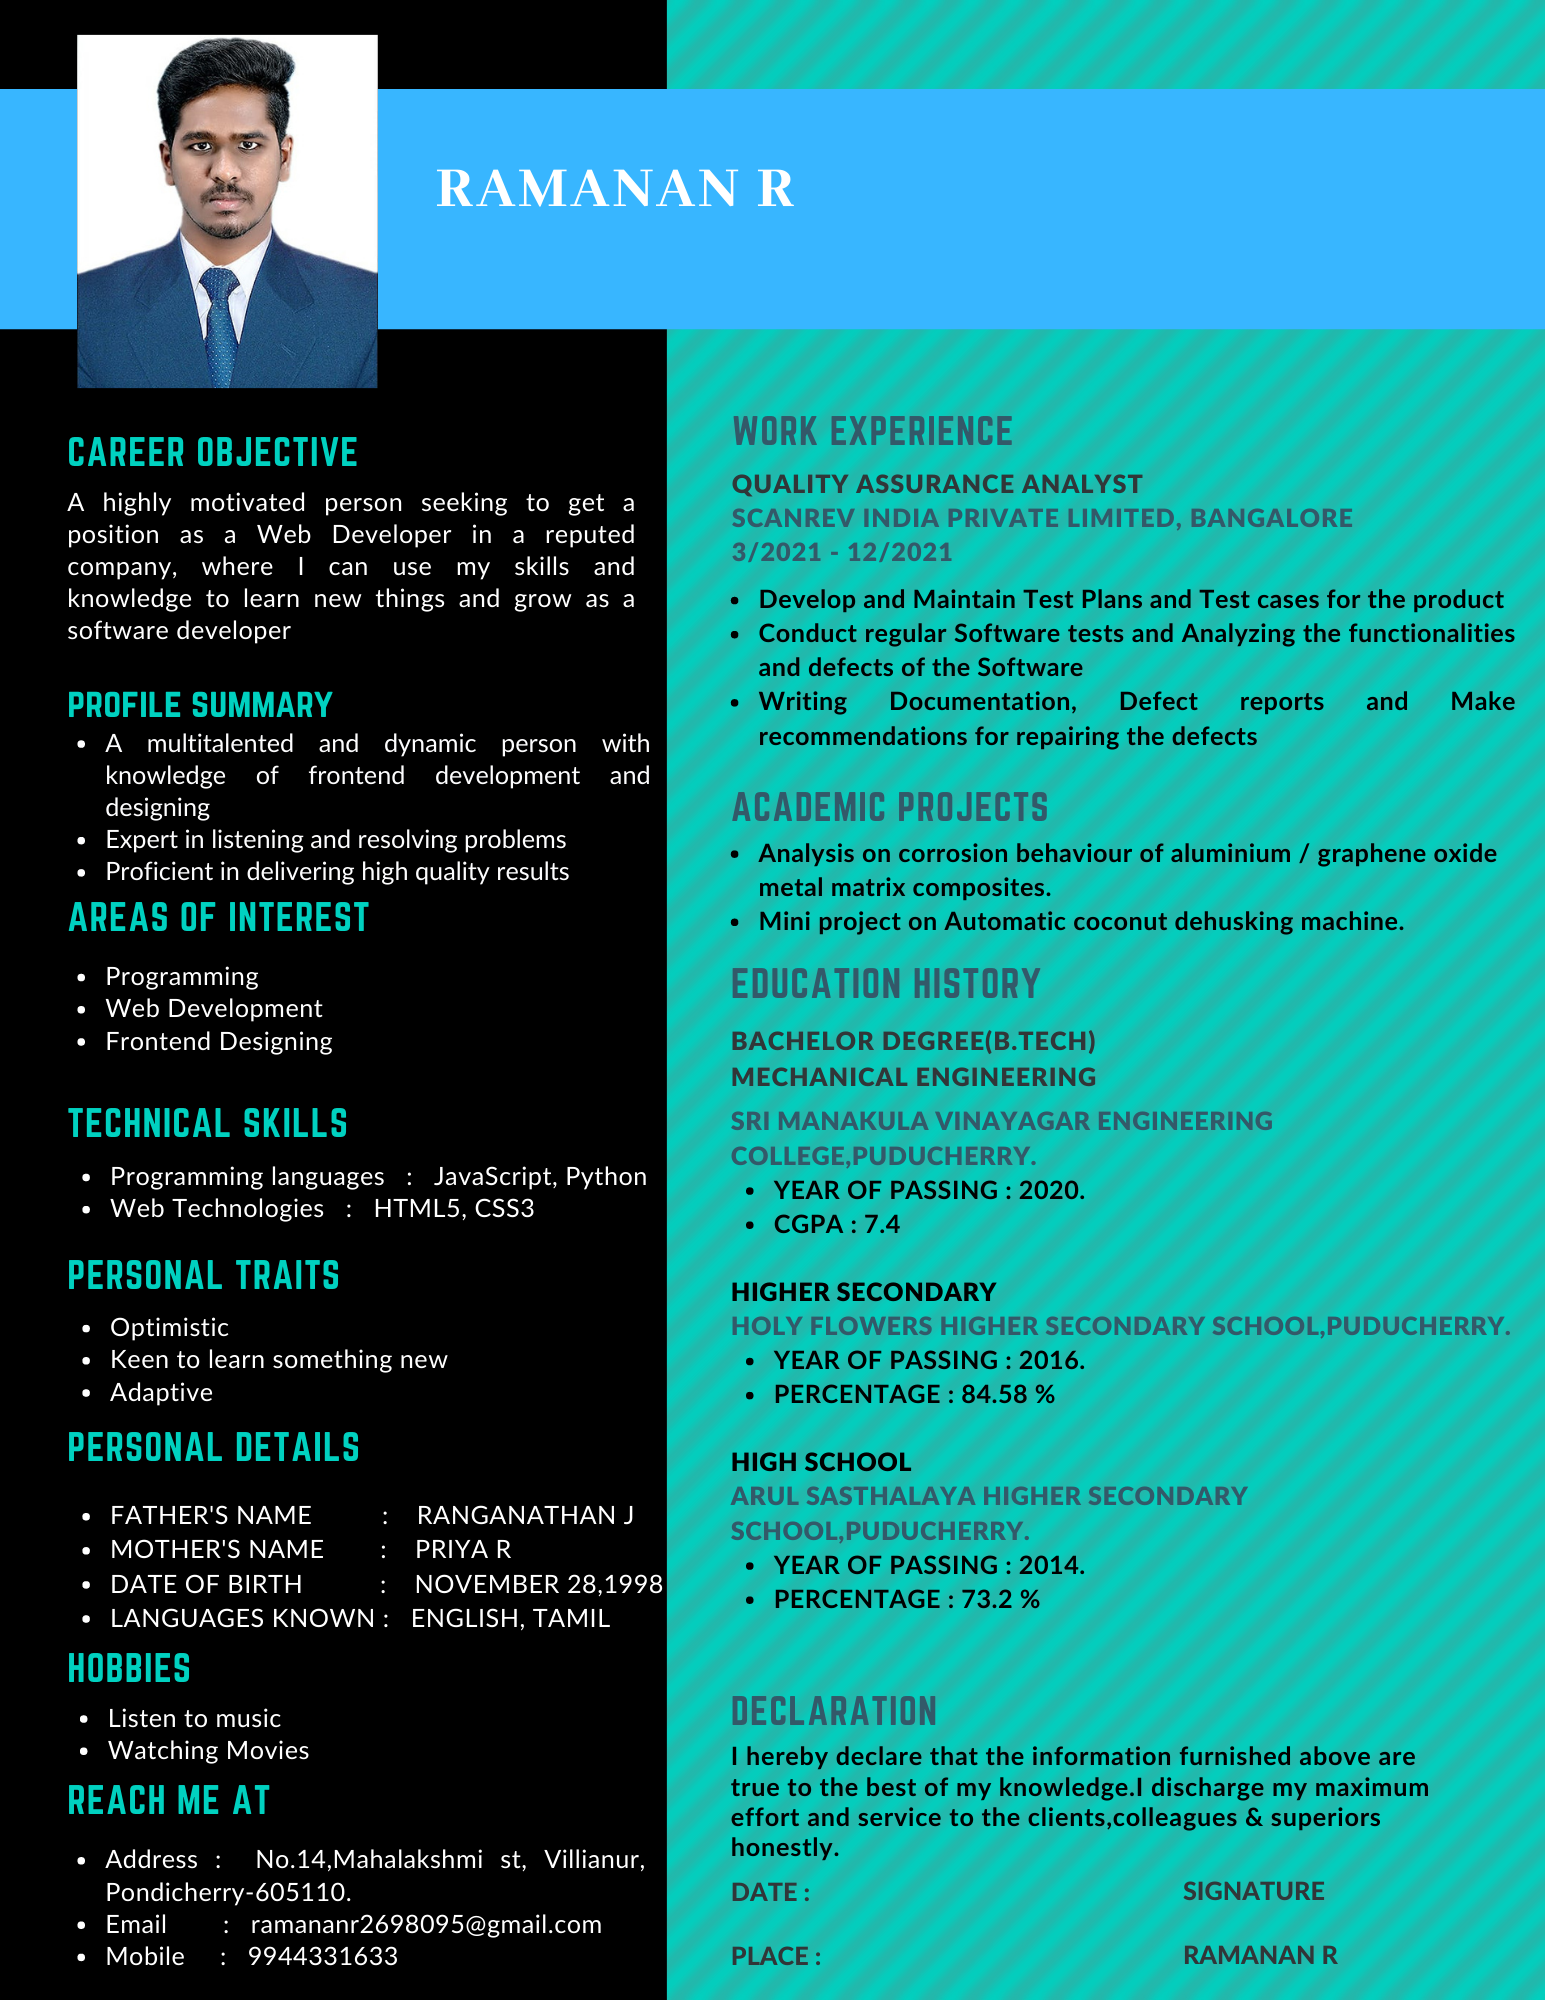
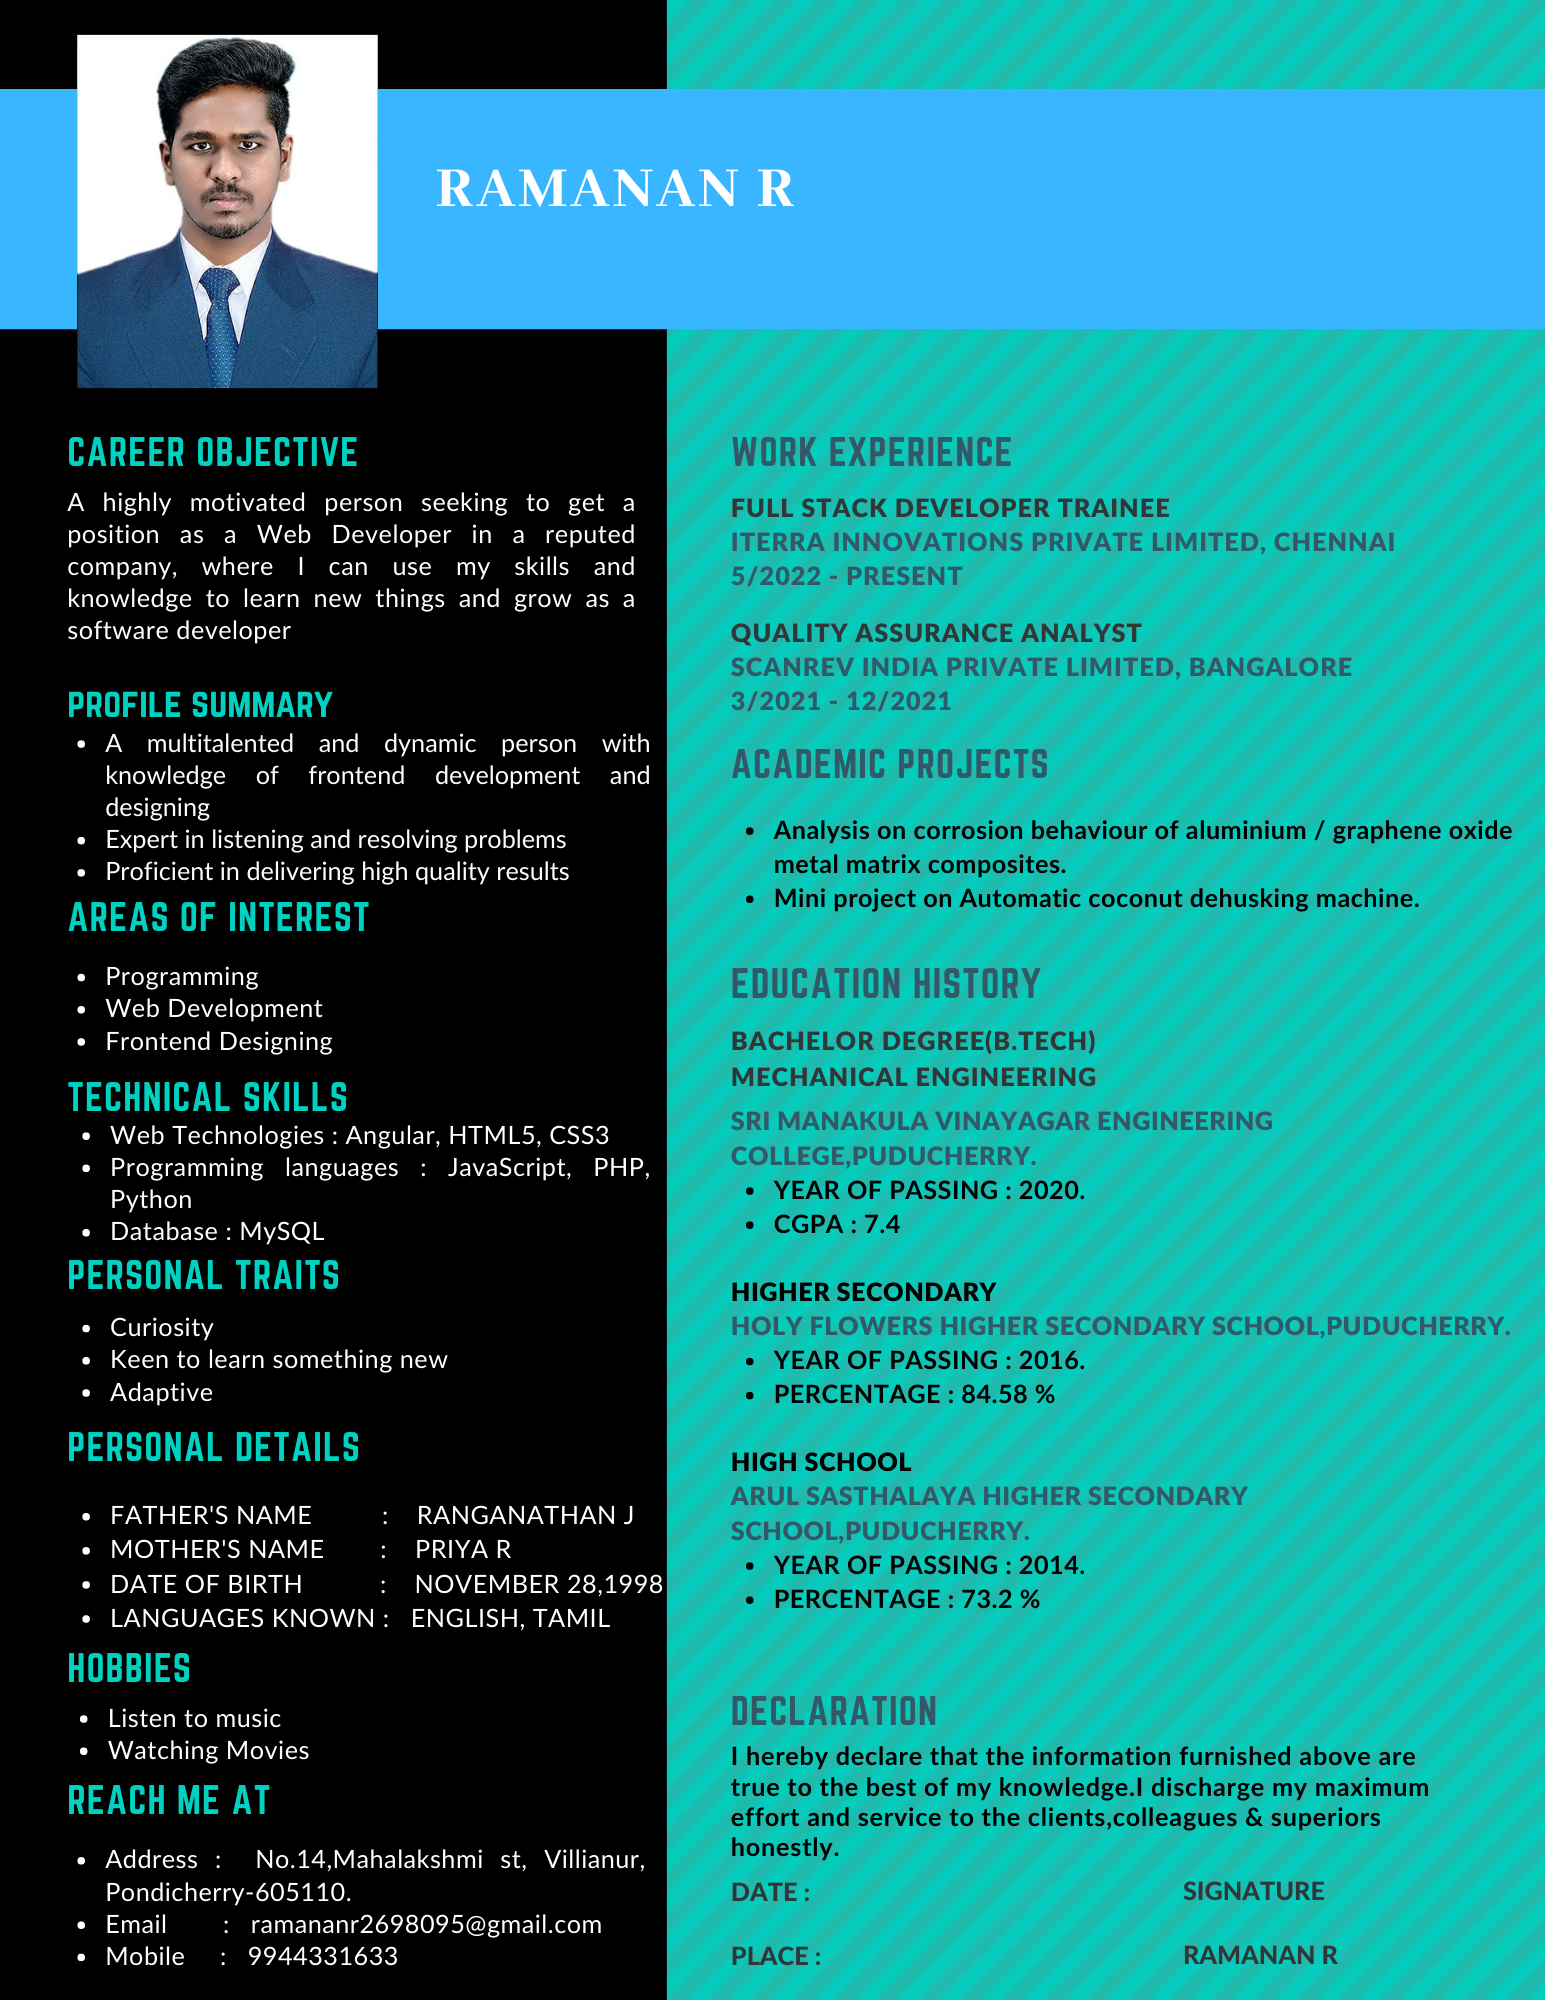
minor updates : work experience and resume

Changed region(s): [[0.466, 0.186, 0.9631, 0.465], [0.0311, 0.527, 0.4039, 0.62], [0.0932, 0.651, 0.1553, 0.682]]

diff --git a/index.html b/index.html
@@ -60,7 +60,7 @@
             <div class="information">
                 <ul>
                     <li>I am a Highly motivated, Self taught, aspiring Web developer. I always intended to complete work (project) under the given time period with my best of skills and experiences.</li>
-                    <li>I always keep exploring the development of web and native applications using latest technologies as React and Html-CSS and etc..</li>
+                    <li>I always keep exploring the development of web and native applications using latest technologies such as Angular and Html-CSS etc..</li>
                     <li>My goal is to obtain position as a Senior Software Engineer to learn and advance my current skill set and improve the services of the establishment.</li>
                     <li>I am skilled In dealing with problems in a resourceful manner and negotiating to achieve beneficial agreement.</li>
                     <li>I am always enthusiastic to learn and undertake new challenges.</li>
@@ -77,7 +77,11 @@
             <div class="study-image-container"><img class="study-image" src="/images/illus/Study.png" alt="study-image"></div>
             <div class="ed-container">
                 <div class="ed">
-                    <h3>Worked as Quality Assurance Analyst</h3>
+                    <h3>Working as a Full Stack Developer Trainee</h3>
+                    <p>05/2022 - Present<br>Iterra Innovations Private Limited, Chennai</p>
+                </div>
+                <div class="ed">
+                    <h3>Worked as a Quality Assurance Analyst</h3>
                     <p>03/2021 - 12/2021<br>ScanRev India Private Ltd, Bangaluru</p>
                 </div>
                 <div class="ed">
@@ -100,11 +104,11 @@
         <h1>My Skills</h1>
         <div class="skills">
             <ul>
-                <li class="skillset"><p>JavaScript</p><div class="skillbar"><div class="bar" id="Js"></div></div> 70 %</li>
-                <li class="skillset"><p>HTML & CSS</p><div class="skillbar"><div class="bar" id="Hc"></div></div> 80 %</li>
-                <li class="skillset"><p>Python</p><div class="skillbar"><div class="bar" id="Py"></div></div> 50 %</li>
-                <li class="skillset"><p>React</p><div class="skillbar"><div class="bar" id="Re"></div></div> 30 %</li>
-                <li class="skillset"><p>Git & Github</p><div class="skillbar"><div class="bar" id="Gh"></div></div> 30 %</li>
+                <li class="skillset"><p>JavaScript</p><div class="skillbar"><div class="bar" style="width: 70%;"></div></div> 70 %</li>
+                <li class="skillset"><p>PHP</p><div class="skillbar"><div class="bar" style="width: 70%;"></div></div> 70 %</li>
+                <li class="skillset"><p>Python</p><div class="skillbar"><div class="bar" style="width: 50%;"></div></div> 50 %</li>
+                <li class="skillset"><p>HTML & CSS</p><div class="skillbar"><div class="bar" style="width: 80%;"></div></div> 80 %</li>
+                <li class="skillset"><p>Git & Github</p><div class="skillbar"><div class="bar" style="width: 30%;"></div></div> 30 %</li>
             </ul>
             <div class="skill-image-container"><img src="/images/illus/Developer.png" alt="" class="skill-image"></div>
         </div>

diff --git a/style.css b/style.css
@@ -269,21 +269,6 @@ div.bar{
     background-color: var(--secondary-color);
     min-height: 15px;
 }
-#Js{
-    width: 70%;
-}
-#Hc{
-    width: 80%;
-}
-#Py{
-    width: 50%;
-}
-#Re{
-    width: 30%;
-}
-#Gh{
-    width: 30%;
-}
 
 /*Certificate container styling*/
 
